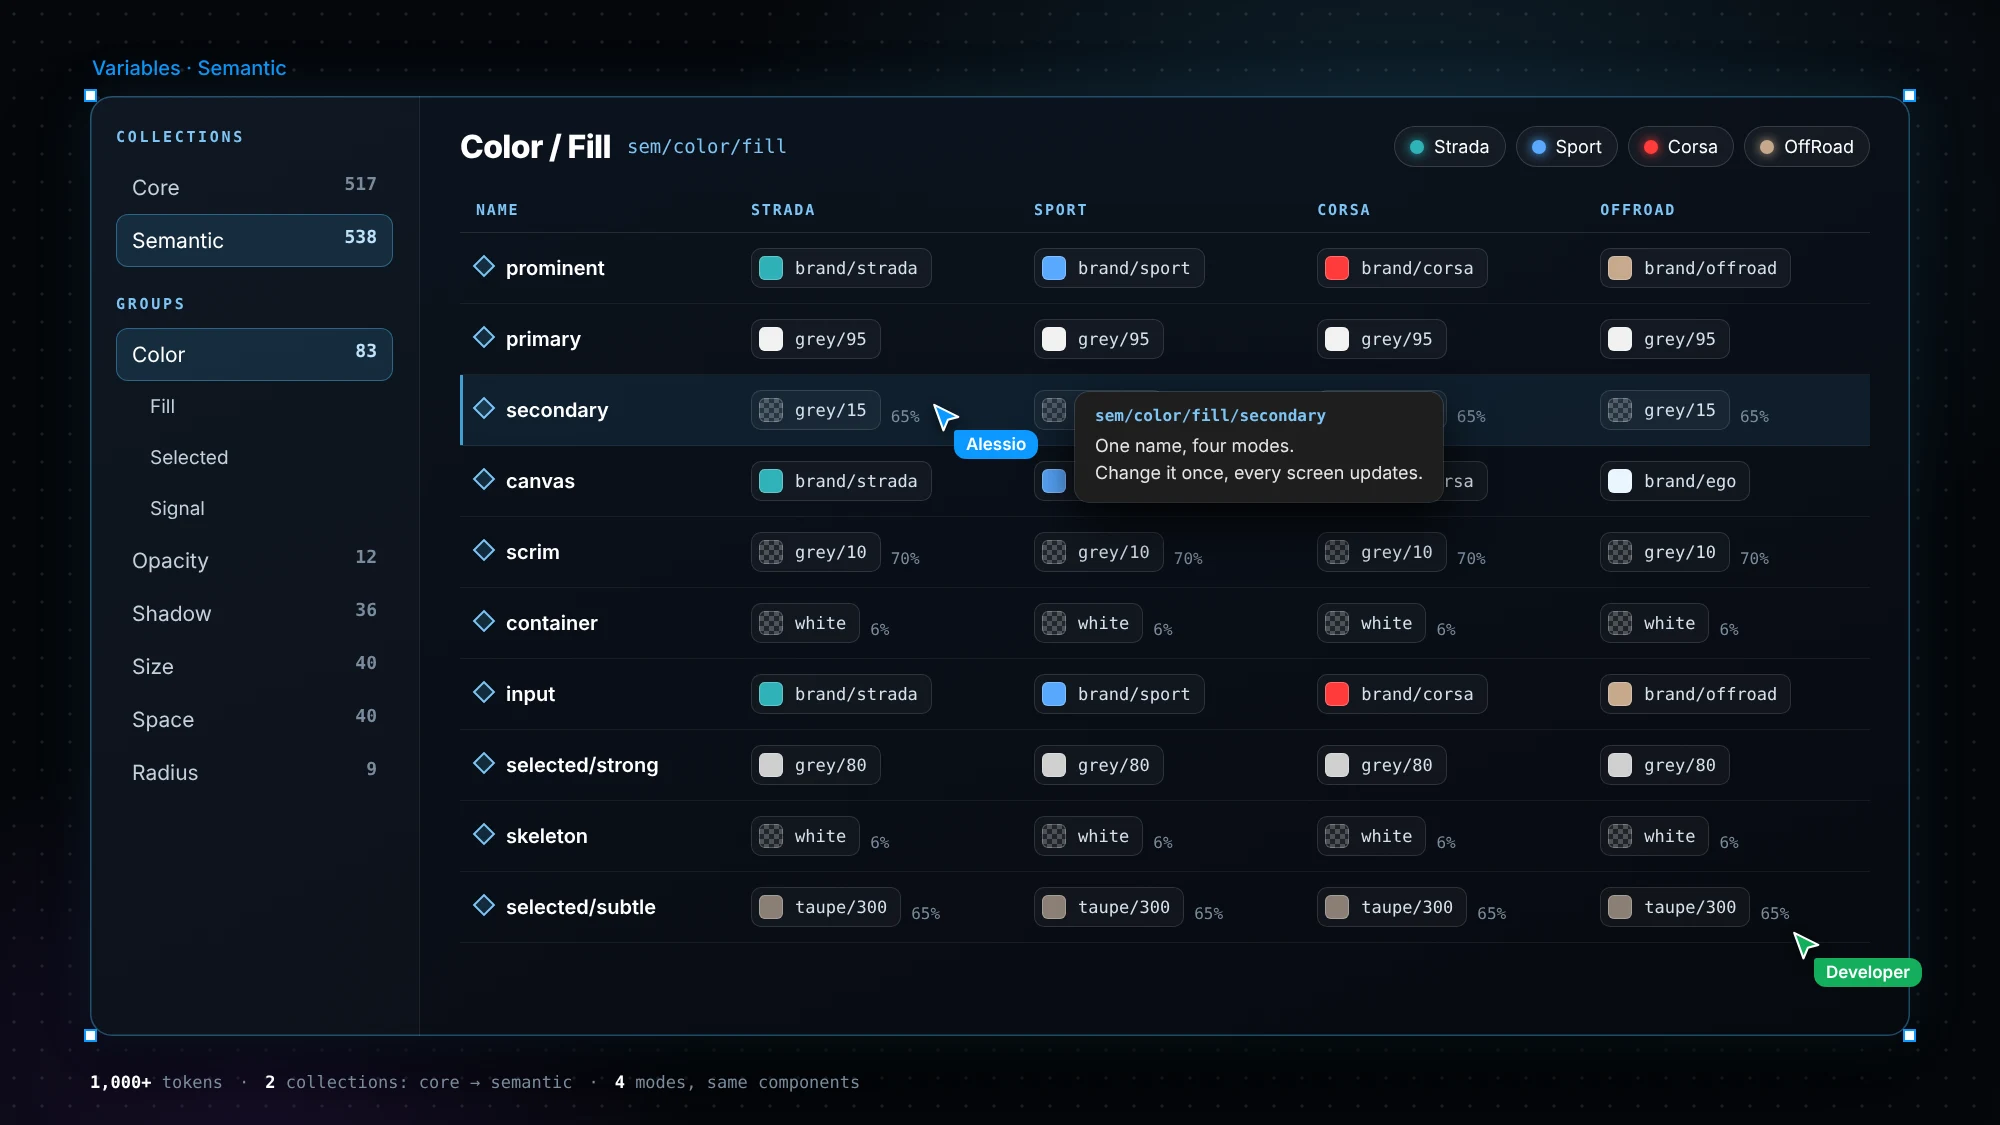
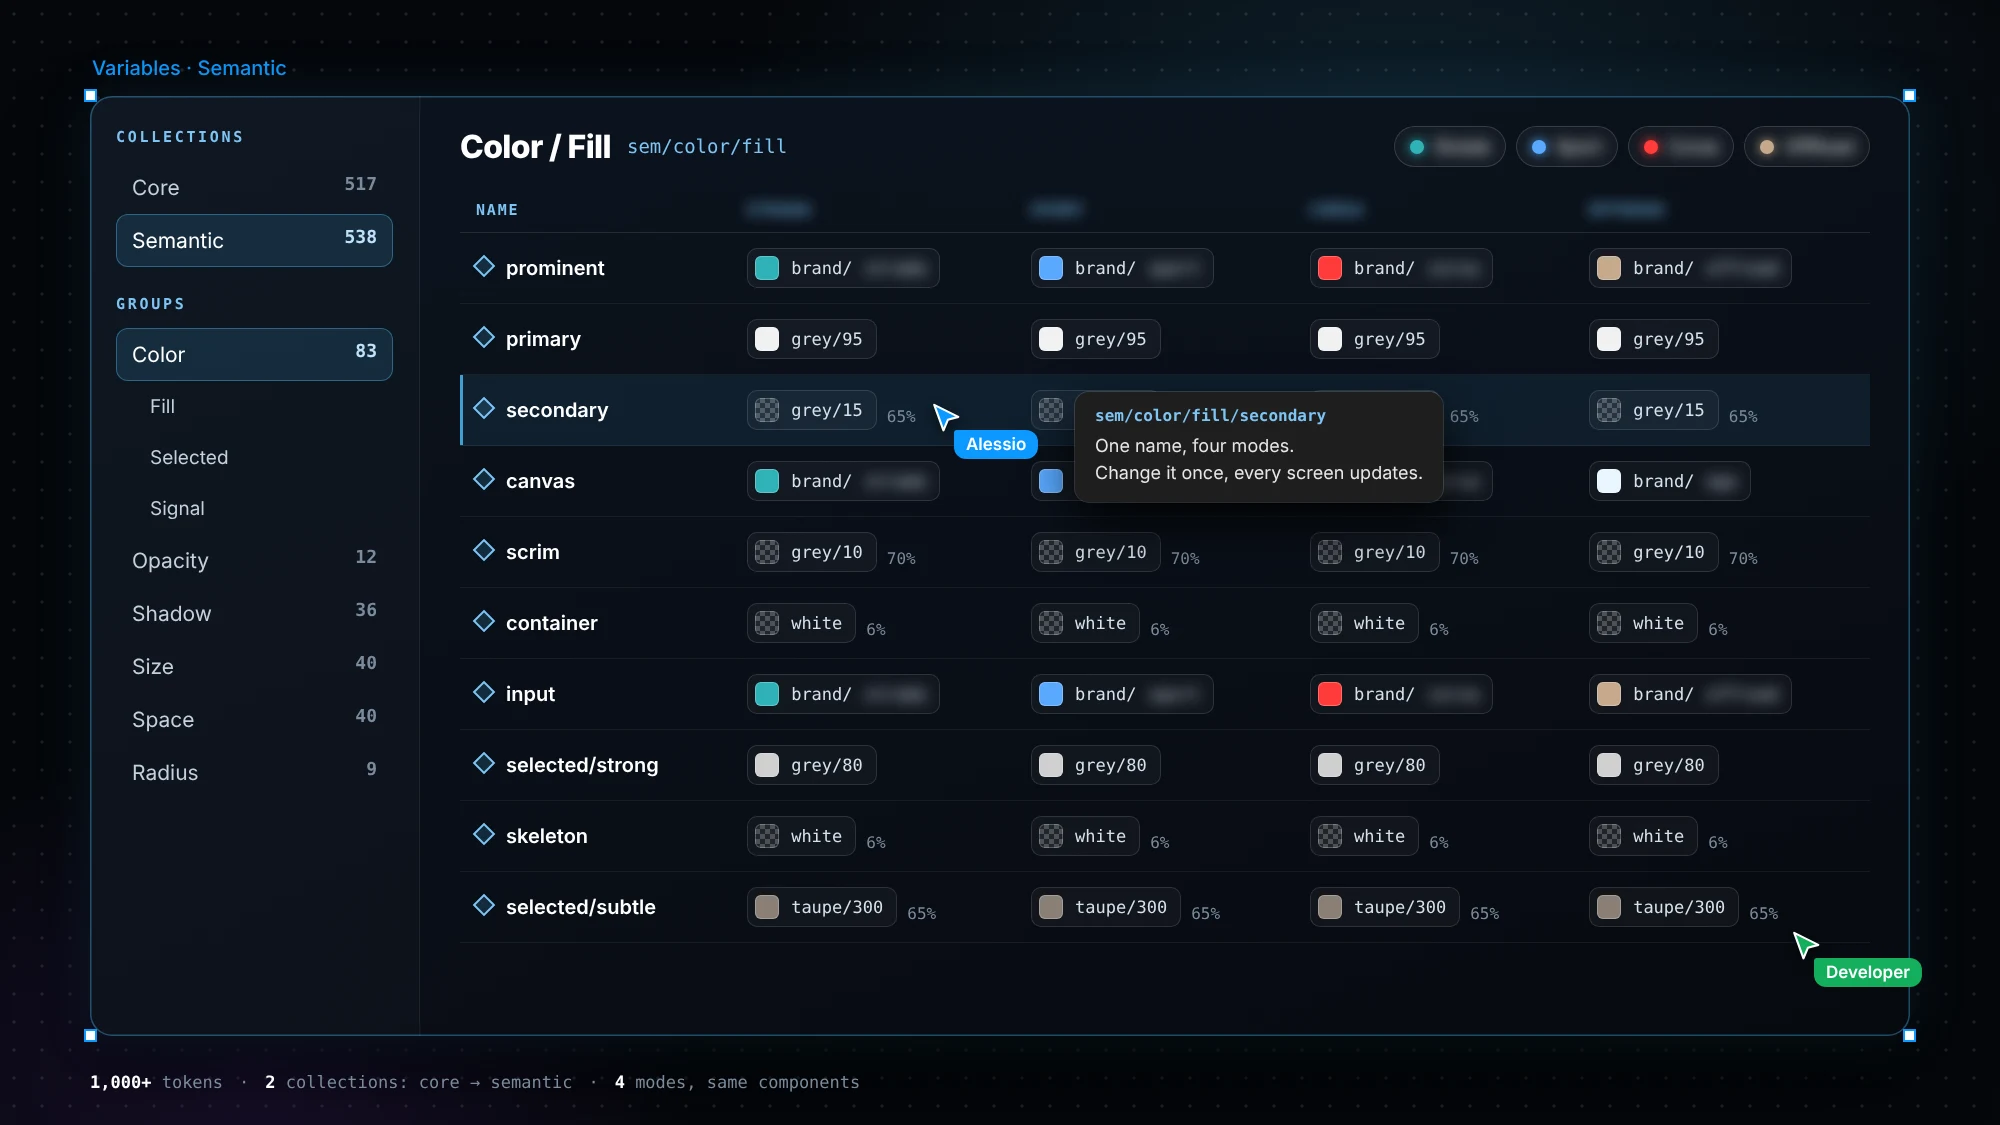
v8.1.1: blur theme names in variables visual
Claude-Session: https://claude.ai/code/session_01V8nC7ptem1x7ZXbzsDoWyV

diff --git a/CHANGELOG.md b/CHANGELOG.md
@@ -2,6 +2,10 @@
 
 Versioning semantico: MAJOR.MINOR.PATCH (es. v1.1.0 = nuova funzione, v1.0.1 = correzione).
 
+## v8.1.1 — Theme names blurred
+
+- Drive mode / theme names blurred in the variables visual.
+
 ## v8.1.0 — Variables visual, no image links
 
 - Gallery images in case studies are no longer links (no new tab, no ↗).
